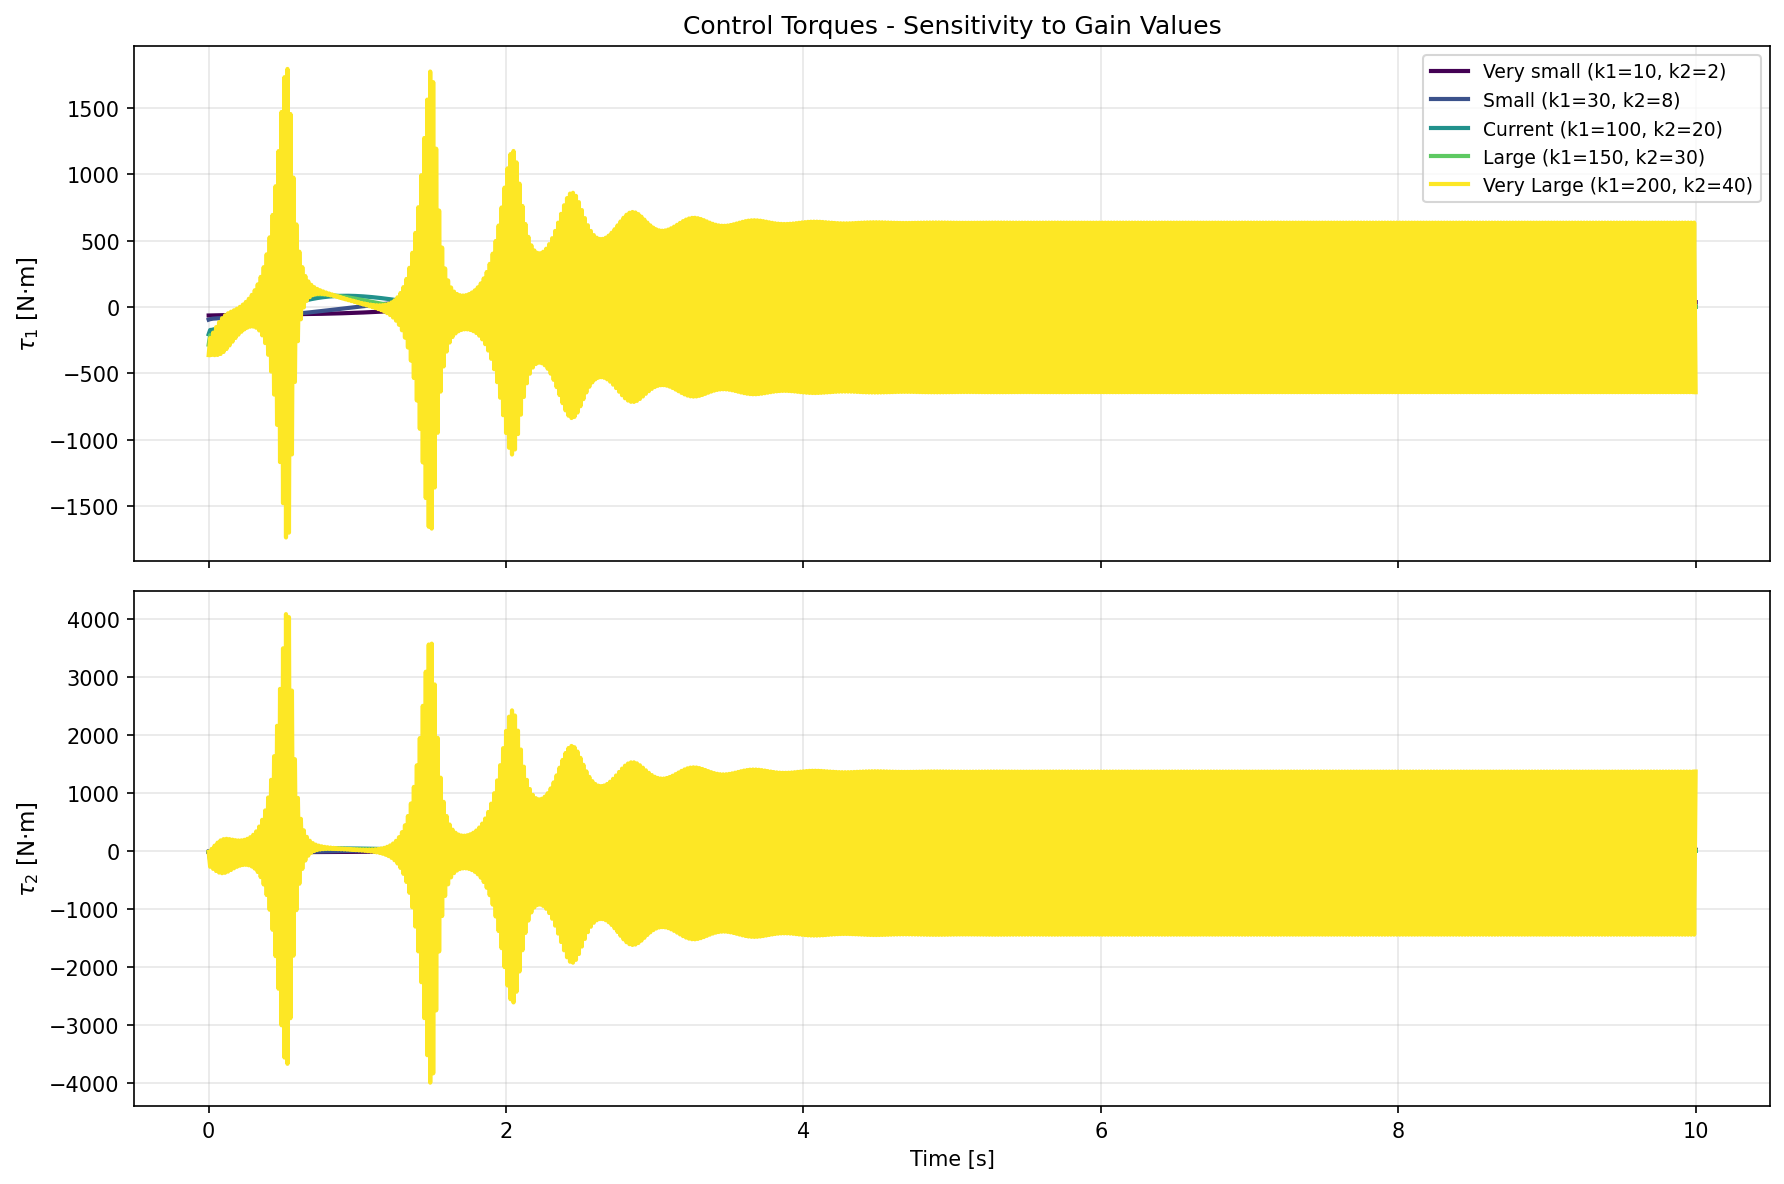
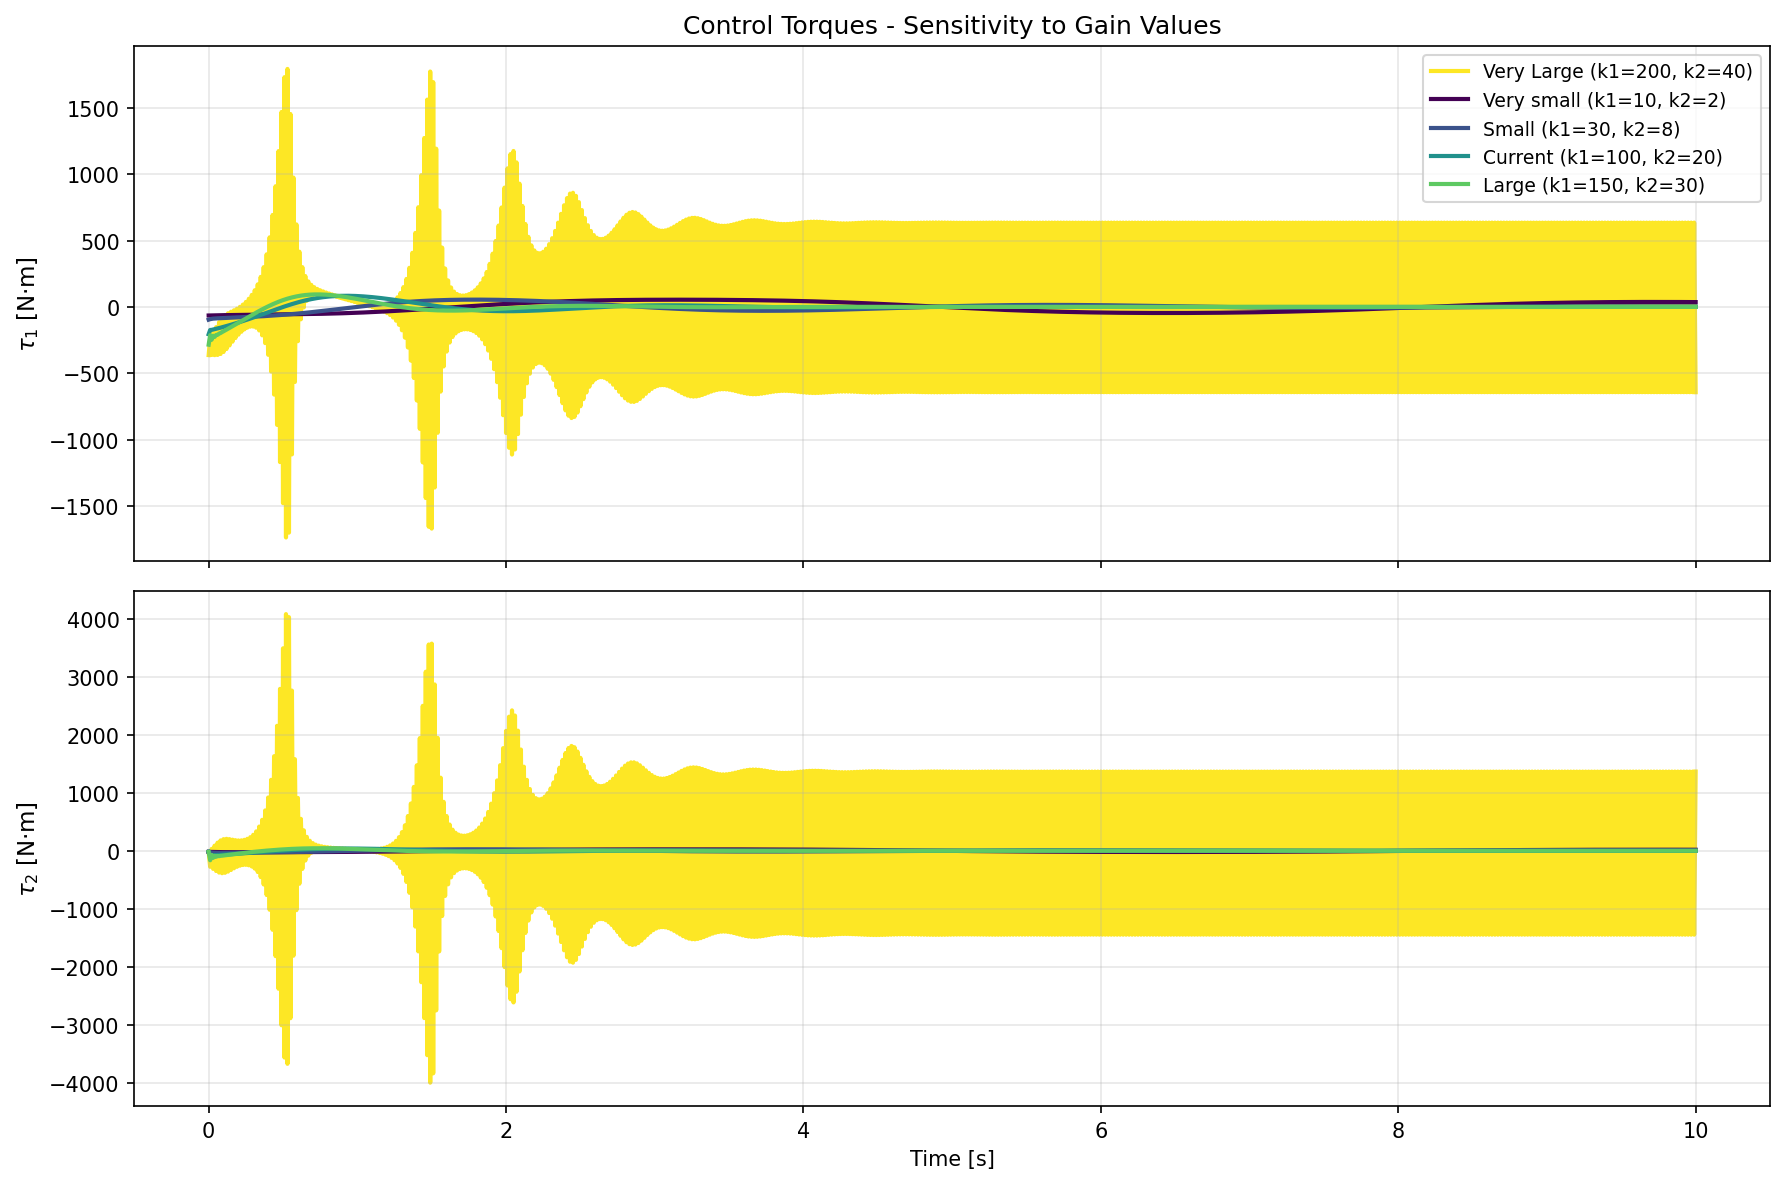
Small fixes

diff --git a/project_1_lyapunov_control_two-linked_manipulator/src/visualization.py b/project_1_lyapunov_control_two-linked_manipulator/src/visualization.py
@@ -279,13 +279,25 @@ def plot_k_sensitivity_comparison(results: dict, save_dir: str = "figures") -> N
     # Figure 3: Control torques comparison
     fig, axes = plt.subplots(2, 1, figsize=(12, 8), sharex=True)
     
+    # Plot "Very Large" (index 4) first with low zorder so others appear on top
+    if len(simulations) > 4:
+        times, states, torques, k1, k2, desc = simulations[4]
+        color = colors[4]
+        # Torque on joint 1
+        axes[0].plot(times, torques[:, 0], color=color, label=desc, linewidth=2, zorder=1)
+        # Torque on joint 2
+        axes[1].plot(times, torques[:, 1], color=color, linewidth=2, zorder=1)
+    
+    # Plot all others with higher zorder
     for idx, (times, states, torques, k1, k2, desc) in enumerate(simulations):
+        if idx == 4:  # Skip "Very Large" since we already plotted it
+            continue
         color = colors[idx]
         
         # Torque on joint 1
-        axes[0].plot(times, torques[:, 0], color=color, label=desc, linewidth=2)
+        axes[0].plot(times, torques[:, 0], color=color, label=desc, linewidth=2, zorder=2)
         # Torque on joint 2
-        axes[1].plot(times, torques[:, 1], color=color, linewidth=2)
+        axes[1].plot(times, torques[:, 1], color=color, linewidth=2, zorder=2)
     
     axes[0].set_ylabel(r"$\tau_1$ [N·m]", fontsize=11)
     axes[1].set_ylabel(r"$\tau_2$ [N·m]", fontsize=11)

diff --git a/project_1_lyapunov_control_two-linked_manipulator/README.md b/project_1_lyapunov_control_two-linked_manipulator/README.md
@@ -5,7 +5,7 @@
 </p>
 
 <p align="center">
-  <em>Figure 0: Animation of the two-link manipulator stabilizing from an initial configuration (θ1=π, θ2=0) to the target position (θd=[π/2, 0]) using the Lyapunov-based controller.</em>
+  <em>Figure 0: Animation of the two-link manipulator stabilizing from an initial configuration (θ₁=π, θ2=0) to the target position (θ₍d₎=[π/2, 0]) using the Lyapunov-based controller.</em>
 </p>
 
 ---
@@ -54,9 +54,7 @@ $x = [\theta_1, \theta_2, \dot{\theta}_1, \dot{\theta}_2]^T$
 
 The control input is the vector of applied joint torques:
 
-\[
 $a = [\tau_1, \tau_2]^T \in \mathbb{R}^2$
-\]
 
 ### Dynamic Parameters
 
@@ -76,7 +74,9 @@ $a = [\tau_1, \tau_2]^T \in \mathbb{R}^2$
 
 The dynamics are derived via Lagrangian mechanics [Baccouch & Dodds, 2020] and take the standard form:
 
-$$M(\theta)\ddot{\theta} + C(\theta,\dot{\theta})\dot{\theta} + G(\theta) = a \tag{1}$$
+$$
+M(\theta)\ddot{\theta} + C(\theta,\dot{\theta})\dot{\theta} + G(\theta) = a \tag{1}
+$$
 
 where:
 
@@ -85,7 +85,7 @@ where:
 - $C(\theta,\dot{\theta}) \in \mathbb{R}^{2\times2}$ is the Coriolis and centrifugal matrix
 - $G(\theta) \in \mathbb{R}^2$ is the gravity vector
 
-#### Inertia Matrix \($M(\theta)$\)
+#### Inertia Matrix \(M($\theta$)\)
 
 $$
 M(\theta) =
@@ -121,16 +121,12 @@ $\dot{M}(\theta) - 2C(\theta, \dot{\theta})$
 is skew-symmetric. This means for any vector 
 $x \in \mathbb{R}^2$:
 
-$$
-x^T \bigl(\dot{M}(\theta) - 2C(\theta,\dot{\theta})\bigr) x = 0 \tag{2}
-$$
+$$x^T \bigl(\dot{M}(\theta) - 2C(\theta,\dot{\theta})\bigr) x = 0 \tag{2}$$
 
 An equivalent and useful rewriting:
-$$
-x^T \dot{M} x = 2\, x^T C x \tag{2'}
-$$
+$$x^T \dot{M} x = 2\, x^T C x \tag{2'}$$
 
-#### Gravity Vector \($G(\theta)$\)
+#### Gravity Vector \(G($\theta$)\)
 
 $$
 G(\theta) =
@@ -142,7 +138,7 @@ $$
 
 The gravity vector is the gradient of the gravitational potential energy U_g(θ) with respect to θ:
 
-$$G(\theta) = \frac{\partial U_g}{\partial \theta}, \qquad U_g = (m_1+m_2)\,g\,l_1\sin\theta_1 + m_2\,g\,l_2\sin(\theta_1+\theta_2)$$
+$$G(\theta) = \frac{\partial U_g}{\partial \theta}, \qquad U_{g} = (m_1+m_2)\,g\,l_1\sin\theta_1 + m_2\,g\,l_2\sin(\theta_1+\theta_2)$$
 
 ---
 
@@ -158,7 +154,9 @@ $$
 
 This law drives the manipulator to the zero configuration $\theta = 0$. However, in practice we want to choose an arbitrary target position $\theta_d \neq 0$ for the end-effector. Replacing $\theta$ with the error $e = \theta − \theta_d$ generalizes this to an arbitrary target, giving the **PD controller with gravity compensation**:
 
-$$a = -k_1 e - k_2 \dot{\theta} + G(\theta) \tag{3}$$
+$$
+a = -k_1 e - k_2 \dot{\theta} + G(\theta) \tag{3} \\
+$$
 
 where $k_1 > 0$ and $k_2 > 0$ are scalar gain coefficients.
 
@@ -171,7 +169,7 @@ where $k_1 > 0$ and $k_2 > 0$ are scalar gain coefficients.
 Substituting (3) into (1):
 
 $$
-M(\theta)\ddot{\theta} + C(\theta,\dot{\theta})\dot{\theta} + k_2 \dot{\theta} + k_1 e = 0 \tag{4}
+M(\theta)\ddot{\theta} + C(\theta,\dot{\theta})\dot{\theta} + k_2 \dot{\theta} + k_1 e = 0 \tag{4} \\
 $$
 
 ### 4.3 Lyapunov Stability Analysis
@@ -180,14 +178,10 @@ To prove asymptotic stability, we use Lyapunov's direct method.
 
 **Step 1: Lyapunov Function Candidate**
 
-Consider the energy-like function \($L(e, \dot{\theta})$\):
+Consider the energy-like function \(L(e, $\dot{\theta}$)\):
 
 $$
-L(e, \dot{\theta})
-=
-\underbrace{\frac{1}{2}\dot{\theta}^T M(\theta)\dot{\theta}}_{\text{Kinetic Energy}}
-+
-\underbrace{\frac{1}{2}k_1 e^T e}_{\text{Potential Energy}} \tag{5}
+L(e, \dot{\theta}) = \underbrace{\frac{1}{2}\dot{\theta}^T M(\theta)\dot{\theta}}_{\text{Kinetic Energy}} + \underbrace{\frac{1}{2}k_1 e^T e}_{\text{Potential Energy}} \tag{5} \\
 $$
 
 - The first term is the kinetic energy of the system. Since $M(\theta)$ is positive definite, it is strictly positive whenever $\dot{\theta} \neq 0$.

diff --git a/README.md b/README.md
@@ -2,6 +2,13 @@
 
 Repository for team projects in the Advanced Control Methods course at Skoltech (2026).
 
+## Authors
+1) Nikita Kuzmin
+2) Pavel Kuznetsov
+3) Georgii Demianchuk
+4) Sofya Konstantinova
+5) Filipp Maksimov
+
 ## Projects
 
 ### Project 1: Lyapunov-Based Control of a Two-Link Manipulator
